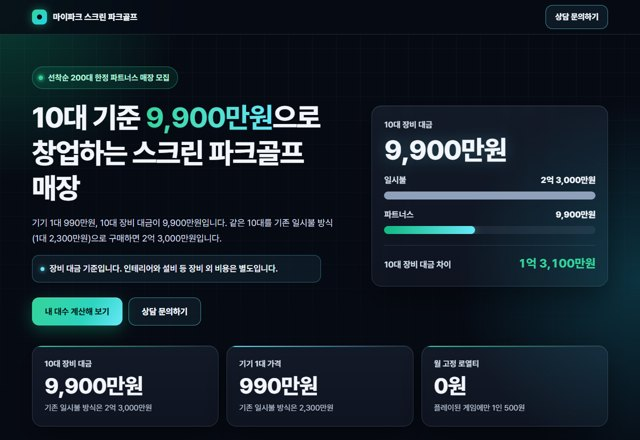
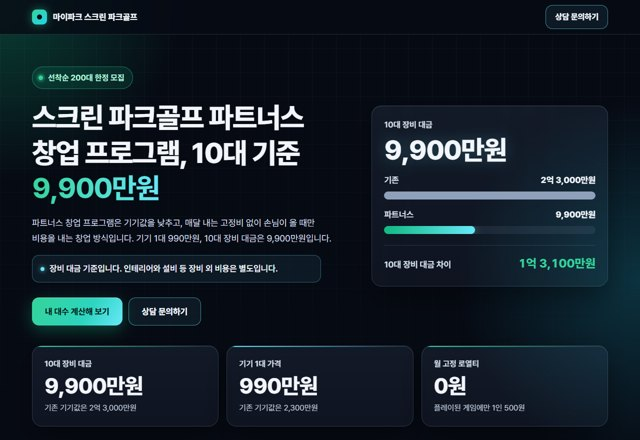
프로그램 소개형 제목, 기존 기기값 표현으로 교체

diff --git a/shared/content.js b/shared/content.js
@@ -19,18 +19,18 @@
 
     // 첫 번째 큰 주제: 10대 장비 9,900만원 파트너스 매장 모집
     hero: {
-      badge: '선착순 200대 한정 파트너스 매장 모집',
-      title: '{base} 기준 {equipNew10}으로 창업하는 스크린 파크골프 매장',
-      titleAlt: '기존 일시불 방식보다 장비 대금을 {save10} 적게 시작합니다',
-      sub: '기기 1대 {unitNew}, {base} 장비 대금이 {equipNew10}입니다. 같은 {base}를 기존 일시불 방식(1대 {unitLegacy})으로 구매하면 {equipLegacy10}입니다.',
+      badge: '선착순 200대 한정 모집',
+      title: '스크린 파크골프 파트너스 창업 프로그램, {base} 기준 {equipNew10}',
+      titleAlt: '기존 기기값보다 장비 대금을 {save10} 적게 창업합니다',
+      sub: '파트너스 창업 프로그램은 기기값을 낮추고, 매달 내는 고정비 없이 손님이 올 때만 비용을 내는 창업 방식입니다. 기기 1대 {unitNew}, {base} 장비 대금은 {equipNew10}입니다.',
       scope: '장비 대금 기준입니다. 인테리어와 설비 등 장비 외 비용은 별도입니다.',
       ctaPrimary: '내 대수 계산해 보기',
       ctaSecondary: '상담 문의하기'
     },
 
     stats: [
-      { label: '{base} 장비 대금', value: '{equipNew10}', note: '기존 일시불 방식은 {equipLegacy10}' },
-      { label: '기기 1대 가격', value: '{unitNew}', note: '기존 일시불 방식은 {unitLegacy}' },
+      { label: '{base} 장비 대금', value: '{equipNew10}', note: '기존 기기값은 {equipLegacy10}' },
+      { label: '기기 1대 가격', value: '{unitNew}', note: '기존 기기값은 {unitLegacy}' },
       { label: '월 고정 로열티', value: '0원', note: '플레이된 게임에만 1인 {royalty}' }
     ],
 
@@ -44,13 +44,13 @@
         { title: '손님이 올 때만 1인 {royalty}', body: '손님이 와서 게임(18홀)을 플레이할 때만 1인당 {royalty}씩 차감됩니다. 이것을 라운드 비용이라고 부릅니다.' },
         { title: '소프트웨어 업그레이드 무상', body: '코스와 펌웨어를 포함한 소프트웨어 업그레이드를 무상으로 계속 제공합니다.' }
       ],
-      legacy: '기존 일시불 방식은 기기를 1대 {unitLegacy}에 한 번에 구매하고, 창업 1년 후부터 기기 1대당 월 {licenseLegacy}의 고정비를 내는 방식입니다.'
+      legacy: '기존 방식은 기기를 1대 {unitLegacy}에 구매하고, 창업 1년 후부터 기기 1대당 월 {licenseLegacy}의 고정비를 냅니다.'
     },
 
     compare: {
       title: '{base} 장비 대금을 비교했습니다',
       lead: '같은 {base}를 구매할 때 기기 값과 본사에 내는 비용이 어떻게 다른지 정리했습니다.',
-      headers: ['항목', '기존 일시불 방식', '파트너스 방식', '차이'],
+      headers: ['항목', '기존 기기값', '파트너스 방식', '차이'],
       saveLabel: '{base} 장비 대금 차이',
       saveValue: '{save10}',
       foot: '장비 대금 기준입니다. 인테리어, 설비, 임대보증금, 권리금, 부가세, 세금 등 장비 외 비용은 별도입니다. 기존 방식의 시스템 라이선스는 창업 1년 후부터 시작됩니다.'
@@ -61,7 +61,7 @@
       title: '기기값과 매달 내는 비용이 이렇게 다릅니다',
       lead: '기기값은 낮아지고, 매달 내던 고정비는 이용한 만큼 내는 라운드 비용으로 바뀝니다.',
       mid: '비교',
-      legacy: { tag: '기존 일시불 방식', price: '{unitLegacy}', priceNote: '기기 1대', feeTitle: '창업 1년 후부터', fee: '월 {licenseLegacy}', feeNote: '기기 1대당 고정비, {base} 월 {licenseLegacy10}' },
+      legacy: { tag: '기존 기기값', price: '{unitLegacy}', priceNote: '기기 1대', feeTitle: '창업 1년 후부터', fee: '월 {licenseLegacy}', feeNote: '기기 1대당 고정비, {base} 월 {licenseLegacy10}' },
       partners: { tag: '파트너스 방식', price: '{unitNew}', priceNote: '기기 1대', feeTitle: '월 기기당 고정비 0원', fee: '1인 {royalty}', feeNote: '플레이된 게임당 라운드 비용, 4인 1팀 {royaltyTeam}' },
       points: [
         '월 기기당 고정비는 0원이고, 손님이 없는 달에는 라운드 비용도 0원입니다.',
@@ -136,10 +136,10 @@
       lead: '아래 기준으로 계산한 값입니다.',
       items: [
         '규모: {base} 기준 (표준 10타석)',
-        '기기: 파트너스 1대 {unitNew}, 기존 일시불 방식 1대 {unitLegacy}, 200대 이후 예정가 1대 {unitAfter}',
+        '기기: 파트너스 1대 {unitNew}, 기존 기기값 1대 {unitLegacy}, 200대 이후 예정가 1대 {unitAfter}',
         '장비 외 비용(인테리어, 설비, 임대보증금, 권리금, 부가세, 세금)은 별도입니다',
         '로열티: 1인 1게임당 {royalty}, 4인 1팀 {royaltyTeam}. 월 고정 로열티와 시스템 관리 라이선스는 0원',
-        '기존 일시불 방식: 창업 1년 후부터 기기 1대당 시스템 라이선스 월 {licenseLegacy}, 게임당 로열티 없음',
+        '기존 방식: 창업 1년 후부터 기기 1대당 시스템 라이선스 월 {licenseLegacy}, 게임당 로열티 없음',
         '게임비 1인 18홀 {gameFee}'
       ],
       notice: [

diff --git a/shared/widget.js b/shared/widget.js
@@ -25,11 +25,11 @@
     plus: '1대 늘리기',
     heroLabel: '200대 이후 예정가보다 적게 드는 금액',
     heroSub: '{pct} 할인 (200대 이후 예정가 기준)',
-    rowLegacy: '기존 일시불 방식',
+    rowLegacy: '기존 기기값',
     rowAfter: '200대 이후 예정가',
     rowPartners: '파트너스 가격',
     rowFormula: '{n}대 × {unit}',
-    save2: '기존 일시불 방식과 비교하면 {amount} 적게 듭니다 ({pct} 절감)',
+    save2: '기존 기기값과 비교하면 {amount} 적게 듭니다 ({pct} 절감)',
     noteBase: '장비 대금 기준 금액입니다.',
     note200: '200대 이후 가격은 예정 단계이며 변경될 수 있습니다.',
     max: 200

diff --git a/concepts/concept_3_dark.html b/concepts/concept_3_dark.html
@@ -521,7 +521,7 @@
   var d = MP.discount(MP.P.baseUnits);
   $('hero-num-l').textContent = C.stats[0].label;
   $('hero-bars').innerHTML = [
-    { l: '일시불', v: V.equipLegacy10, w: 1, c: 'old' },
+    { l: '기존', v: V.equipLegacy10, w: 1, c: 'old' },
     { l: '파트너스', v: V.equipNew10, w: d.partners / d.legacy, c: 'new' }
   ].map(function (b) {
     return '<div class="mbar"><div class="mbar-top"><span>' + b.l + '</span><b class="num">' + esc(b.v) + '</b></div>' +
